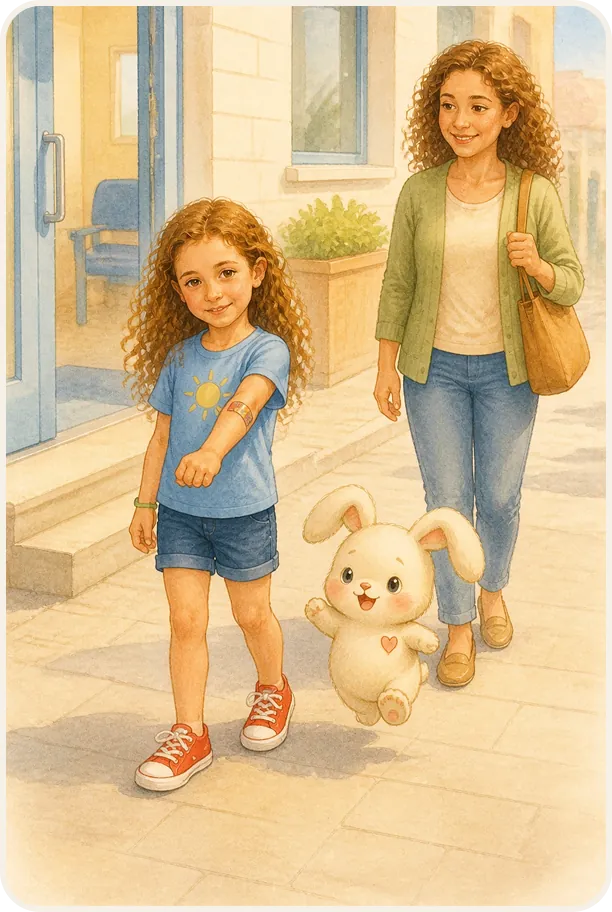
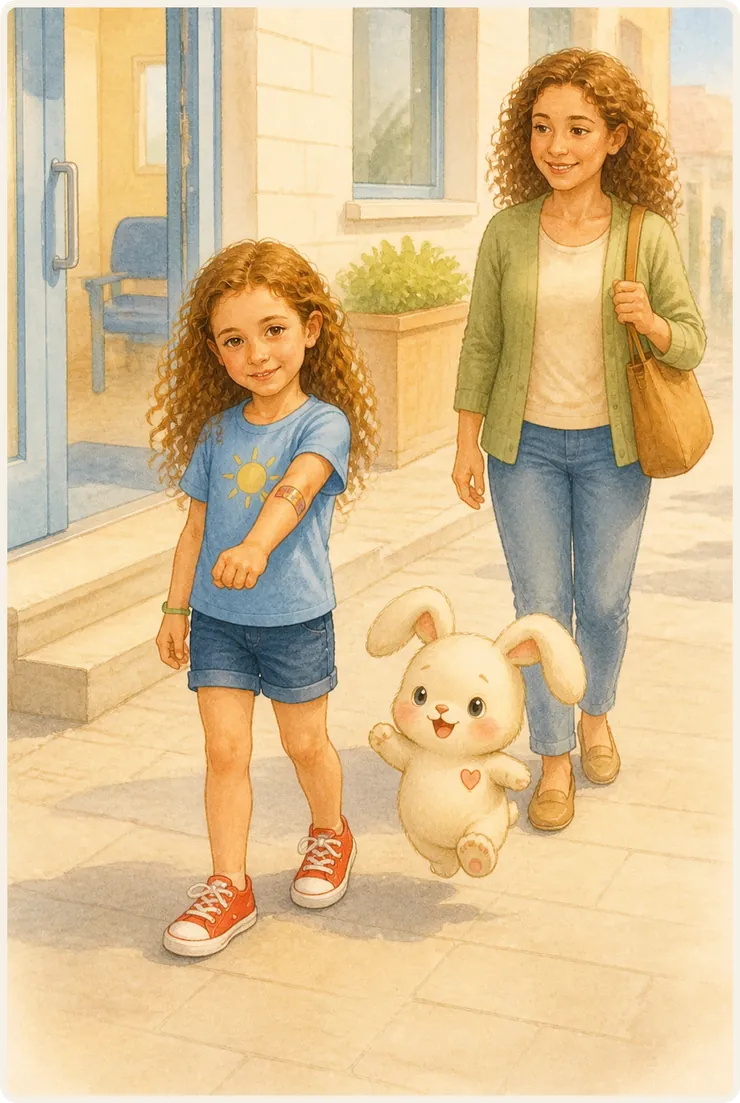
fix(landing): restore the hero tilt, reopen the collage, drop the flourishes
Guy replaced the three story panels with less-rounded exports — pages
rather than app tiles — and asked for the composition to open up, the size
ladder to soften, and the cursor lean to come back.

THE TILT WAS DEAD, and not for the reason it looked. initHeroTilt was
called AFTER an early `return` that bails when the parallax element is
missing — and that element lived on the single hero <img> that the CSS
collage replaced. So the whole hero lean died silently the moment the
collage landed, and stayed dead through several rounds. The two effects
are independent, so neither may gate the other: the tilt is now set up
before the parallax block, and the parallax hook moved onto the collage.

Verified by reading what the JS actually writes, not what the element
happens to be doing: rotateX 3.04° / rotateY -3.394° at one corner,
inverted at the opposite one, with every panel's own transform `none` —
the three pages lean as one object. The earlier "it responds" reading was
the CSS float keyframes ticking, which is why this needed the inline
transform to confirm.

COMPOSITION — the frame is wider and shorter (1.52 vs 1.32) so the pages
can stand apart without any of them shrinking; the middle page now shows
about two thirds of itself, which is where the friend stands, so she
clears the page in front of her. The size ladder went 67% → 82% → 90% →
84% across rounds: level read as heavy, so it came back, gentler than it
started. Margins balance, no page leaves the frame.
[…]

diff --git a/app/landing/landing.css b/app/landing/landing.css
@@ -325,10 +325,16 @@
 .hero-img-wrap {
   flex: 0 0 auto;
   position: relative;
-  /* the WIDE desktop story-strip (per Guy: let it feel big) + the 3D
-     tilt's stage: perspective lives on the wrap, rotation on .hero-float */
-  width: min(720px, 54vw);
-  aspect-ratio: 1206 / 912;
+  /* The frame is WIDER and shorter than the old composite (per Guy: open
+     the pages up so the friend is visible in the middle one). Three panels
+     at ~44% each only fit with big overlaps in a 1.32 frame; at 1.52 they
+     stand apart and none of them had to shrink. Also the 3D tilt's stage:
+     perspective lives on the wrap, rotation on .hero-float. */
+  /* How MUCH of each page shows is set by the percentages below, not by
+     this width — so the width is free to be tuned for the copy's breathing
+     room instead. */
+  width: min(762px, 55vw);
+  aspect-ratio: 1216 / 800;
   align-self: center;
   perspective: 1100px;
 }
@@ -346,41 +352,65 @@
 
 .hero-beat {
   position: absolute;
-  height: auto;
   display: block;
+  /* the shine rides inside the page's edge; the radius is a touch tighter
+     than the art's own corners so it never cuts outside them */
+  border-radius: 8px;
+  overflow: hidden;
   /* the panels ride on transparency and carry their own light; a soft
      shadow grounds them on the white page */
   filter: drop-shadow(0 22px 36px rgba(45, 30, 90, 0.18));
-  /* revealed in STORY order — see the delays below */
-  animation: hero-beat-in 620ms cubic-bezier(0.22, 1, 0.36, 1) both;
+  /* revealed in STORY order — see the delays below. `backwards` (not
+     `both`): the end state already equals the resting style, and a
+     forwards fill would outrank the hover transform. */
+  animation: hero-beat-in 620ms cubic-bezier(0.22, 1, 0.36, 1) backwards;
 }
 
-/* 1 — the waiting room: smallest, furthest back, lowest */
+.hero-beat-img {
+  display: block;
+  width: 100%;
+  height: auto;
+}
+
+/* Sizes, settled with Guy over three rounds: 35.2 / 39.6 / 44 of the frame
+   width — the smallest is 80% of the largest. Levelling them to 90% made
+   the block read as heavy, so the ladder came back, just gentler than the
+   67% it started at. Each page is vertically centred, the widths follow the
+   panels' native 0.67, and the frame's ratio is set so the largest fills
+   its height exactly. The left offsets keep the composition open: the
+   middle page still shows about two thirds of itself, which is where the
+   friend stands, so she clears the page in front of her. */
+
+/* 1 — the waiting room: smallest, furthest back */
 .hero-beat[data-beat='1'] {
-  left: 0.7%;
-  top: 16.7%;
-  width: 33.9%;
+  left: 4%;
+  top: 10%;
+  width: 35.2%;
   z-index: 1;
   animation-delay: 260ms;
 }
 
 /* 2 — meeting the friend */
 .hero-beat[data-beat='2'] {
-  left: 19.5%;
-  top: 7.5%;
-  width: 43.1%;
+  left: 25%;
+  top: 5%;
+  width: 39.6%;
   z-index: 2;
   animation-delay: 480ms;
 }
 
 /* 3 — walking out: largest, in front, full height of the frame */
 .hero-beat[data-beat='3'] {
-  left: 48.5%;
+  left: 52%;
   top: 0;
-  width: 50.6%;
+  width: 44%;
   z-index: 3;
   animation-delay: 700ms;
 }
+
+/* (Per-panel hover cut per Guy: the whole collage already tilts with the
+   cursor as one object — see initHeroTilt — and a second hover behaviour on
+   the same thing fought it.) */
 
 /* each beat lifts into place from slightly below and behind */
 @keyframes hero-beat-in {
@@ -393,6 +423,13 @@
     transform: translate3d(0, 0, 0) scale(1) rotate(0deg);
   }
 }
+
+/* (The diagonal light sweep was cut per Guy — it read as luxury-product
+   packaging, and these are pictures.) */
+
+/* (The star trail and the per-panel sparks were cut per Guy — the pictures
+   carry the hero, and the flourishes were competing with them.) */
+
 
 /* ── Book Gallery ──────────────────────────────────────────── */
 .gallery-section {
@@ -1539,28 +1576,31 @@
   }
 
   /* Phones re-stack the beats: the friend sits above, and the fear and the
-     outcome sit below it — the same three cards, a taller frame. */
+     outcome sit below it — the same three cards, a taller frame. Same
+     ladder as the desktop: 46.4 / 52 / 58 of the frame width. */
   .hero-beat[data-beat='1'] {
-    left: 2.2%;
-    top: 37%;
-    width: 36.5%;
+    left: 1%;
+    top: 40%;
+    width: 46.4%;
   }
 
   .hero-beat[data-beat='2'] {
-    left: 21.5%;
-    top: 1%;
-    width: 56.6%;
+    left: 18%;
+    top: 0;
+    width: 52%;
   }
 
   .hero-beat[data-beat='3'] {
-    left: 38.7%;
-    top: 38%;
-    width: 59.4%;
+    left: 41%;
+    top: 36%;
+    width: 58%;
   }
 
   .hero-beat {
     filter: drop-shadow(0 14px 24px rgba(45, 30, 90, 0.18));
+    border-radius: 6px;
   }
+
 
   .helps-grid,
   .fit-grid {
@@ -1987,13 +2027,15 @@
 /* ── 2027 hero staging ──────────────────────────────────────────────
    The illustration is a held object on a lit surface: key light above,
    contact shadow below. Depth comes from the shadow pair, not from scale. */
-/* Stillness: every beat is simply present, in place, at once. */
+/* Stillness: every beat is simply present, in place, at once — and the
+   magic holds its breath rather than blinking. */
 @media (prefers-reduced-motion: reduce) {
   .hero-beat {
     animation: none;
     opacity: 1;
     transform: none;
   }
+
 }
 
 /* (No oval contact shadow: the story panels carry their own shadows, and a

diff --git a/app/landing/hero-collage.tsx b/app/landing/hero-collage.tsx
@@ -14,10 +14,15 @@
  * sequence legible at all, and at rest the composition still leads with the
  * outcome as its largest, frontmost card.
  *
+ * Motion is deliberately ONE thing: the whole collage tilts with the cursor
+ * as a single object (initHeroTilt in motion.ts, on .hero-float). A round of
+ * per-panel sparks, a light sweep, a star trail and a per-panel hover lift
+ * were all tried and cut per Guy — each pulled attention off the pictures,
+ * and two hover behaviours on one object fought each other.
+ *
  * Layout is CSS, not a baked image: each beat is positioned as a percentage
- * of the frame, matching the proportions of Guy's original composite, with a
- * separate arrangement for phones. Under prefers-reduced-motion every panel
- * is simply present (landing.css).
+ * of the frame, with a separate arrangement for phones. Under
+ * prefers-reduced-motion the beats are simply present (landing.css).
  */
 
 const BEATS = [
@@ -40,23 +45,25 @@ const BEATS = [
 
 export function HeroCollage() {
   return (
-    <div className="hero-collage">
+    /* data-parallax is the scroll-drift hook motion.ts looks for; it moved
+       here from the old single <img> when the collage replaced it */
+    <div className="hero-collage" data-parallax="hero-img">
       {BEATS.map((beat, i) => (
-        <img
-          key={beat.key}
-          className="hero-beat"
-          data-beat={i + 1}
-          src={beat.src}
-          alt={beat.alt}
-          /* the hero is the LCP element: the first beat must not wait */
-          loading="eager"
-          decoding="async"
-          fetchPriority={i === 2 ? 'high' : 'auto'}
-          draggable={false}
-          onError={(e) => {
-            e.currentTarget.style.visibility = 'hidden';
-          }}
-        />
+        <span key={beat.key} className="hero-beat" data-beat={i + 1}>
+          <img
+            className="hero-beat-img"
+            src={beat.src}
+            alt={beat.alt}
+            /* the hero is the LCP element: the beats must not wait */
+            loading="eager"
+            decoding="async"
+            fetchPriority={i === 2 ? 'high' : 'auto'}
+            draggable={false}
+            onError={(e) => {
+              e.currentTarget.style.visibility = 'hidden';
+            }}
+          />
+        </span>
       ))}
     </div>
   );

diff --git a/app/landing/motion.ts b/app/landing/motion.ts
@@ -102,6 +102,14 @@ export function initLandingMotion(root?: HTMLElement | null): void {
   addEventListener('scroll', rescueOnScreen, { passive: true });
 
   if (!window.matchMedia('(pointer: fine)').matches) return;
+
+  /* The tilt is set up BEFORE the parallax, and deliberately so: it used to
+     sit after the `if (!img) return` below, which meant the whole hero lean
+     silently died the day the single hero image was replaced by the CSS
+     collage and the parallax hook went with it. The two effects are
+     independent, so neither may gate the other. */
+  initHeroTilt(el);
+
   const img = el.querySelector<HTMLElement>(P);
   if (!img) return;
   let t = 0;
@@ -114,8 +122,6 @@ export function initLandingMotion(root?: HTMLElement | null): void {
   };
   onScroll();
   addEventListener('scroll', onScroll, { passive: true });
-
-  initHeroTilt(el);
 }
 
 /**
